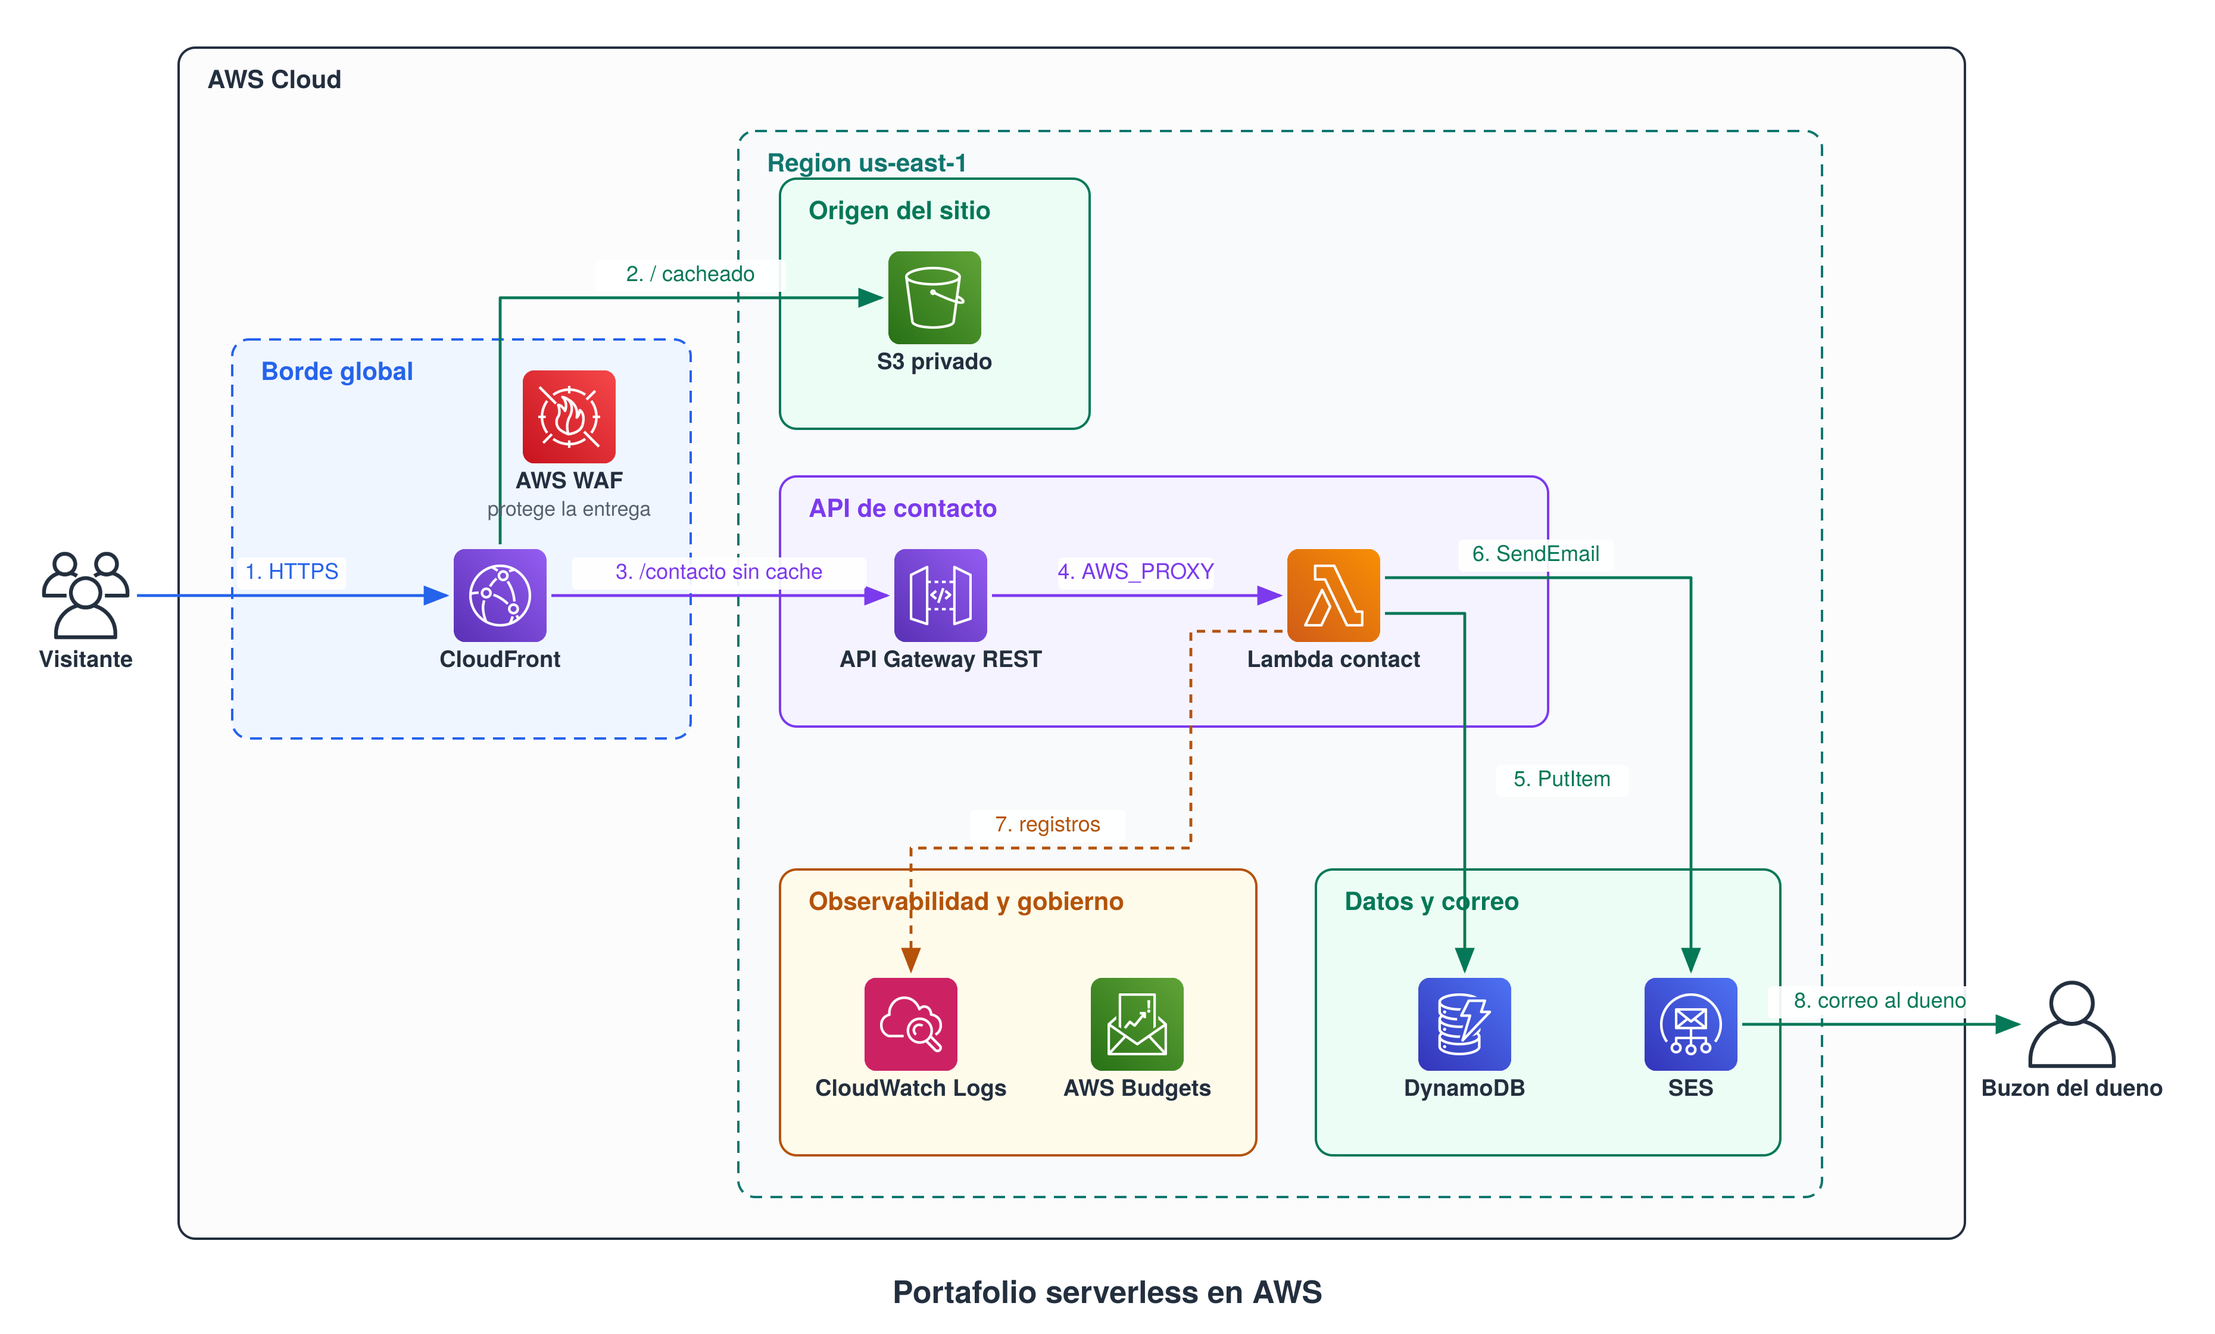
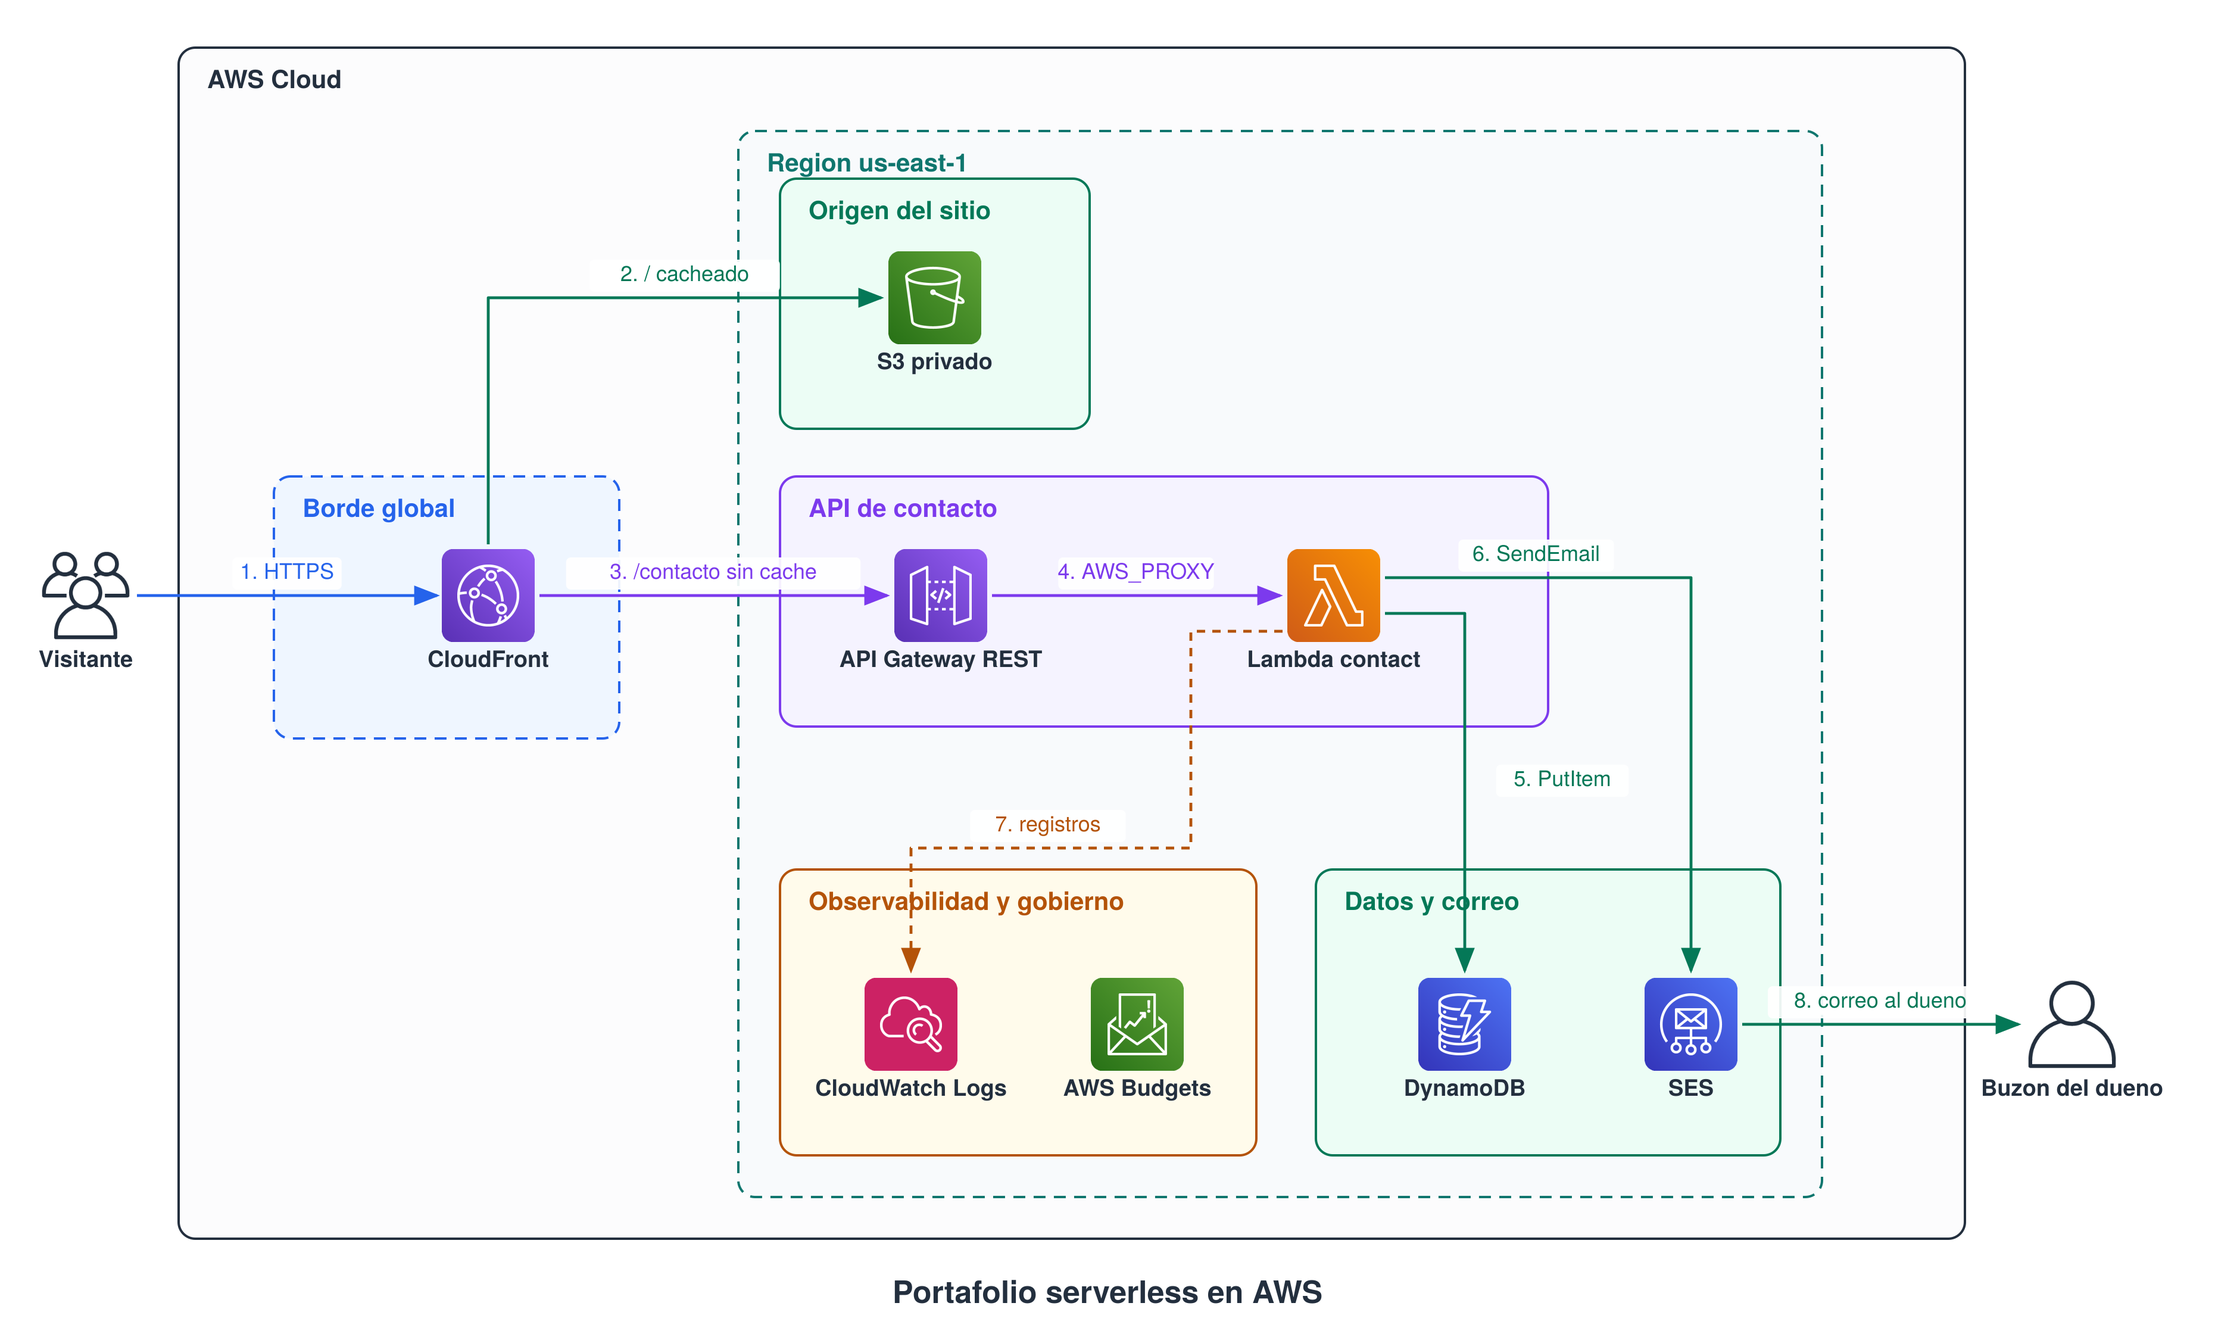
feat: delete waf from implementation, and improve the cdk practices, and add claude.md for interaction with ai

diff --git a/cdk/lib/portfolio-stack.ts b/cdk/lib/portfolio-stack.ts
@@ -5,7 +5,6 @@ import { ContactApi } from "./constructs/contact-api";
 import { ContactFunction } from "./constructs/contact-function";
 import { CostGuardrail } from "./constructs/cost-guardrail";
 import { EdgeDistribution } from "./constructs/edge-distribution";
-import { EdgeFirewall } from "./constructs/edge-firewall";
 import { MessageStore } from "./constructs/message-store";
 import { OwnerNotifications } from "./constructs/owner-notifications";
 import { SiteStorage } from "./constructs/site-storage";
@@ -13,23 +12,16 @@ import { SiteStorage } from "./constructs/site-storage";
 const CONTACT_PATH = "contacto";
 const API_RATE_LIMIT = 5;
 const API_BURST_LIMIT = 10;
-const WAF_REQUESTS_PER_IP = 100;
-const WAF_WINDOW_SECONDS = 300;
-const BUDGET_LIMIT_USD = 8;
-const BUDGET_ALERTS_USD = [5, 8];
+const BUDGET_LIMIT_USD = 5;
+const BUDGET_ALERTS_USD = [1, 5];
 
 export interface PortfolioStackProps extends cdk.StackProps {
   ownerEmail: string;
-  enableWaf: boolean;
 }
 
 export class PortfolioStack extends cdk.Stack {
   constructor(scope: Construct, id: string, props: PortfolioStackProps) {
     super(scope, id, props);
-
-    if (props.enableWaf && cdk.Stack.of(this).region !== "us-east-1") {
-      throw new Error("CloudFront WAF web ACLs are created in us-east-1. Deploy this stack in us-east-1.");
-    }
 
     const storage = new SiteStorage(this, "SiteStorage");
 
@@ -55,19 +47,10 @@ export class PortfolioStack extends cdk.Stack {
       burstLimit: API_BURST_LIMIT,
     });
 
-    const firewall = props.enableWaf
-      ? new EdgeFirewall(this, "EdgeFirewall", {
-          protectedPath: `/${CONTACT_PATH}`,
-          requestsPerIp: WAF_REQUESTS_PER_IP,
-          evaluationWindowSeconds: WAF_WINDOW_SECONDS,
-        })
-      : undefined;
-
     const edge = new EdgeDistribution(this, "EdgeDistribution", {
       siteBucket: storage.bucket,
       contactApi: api.api,
       contactPath: CONTACT_PATH,
-      webAclArn: firewall?.webAclArn,
     });
 
     new CostGuardrail(this, "CostGuardrail", {

diff --git a/cdk/lib/constructs/edge-distribution.ts b/cdk/lib/constructs/edge-distribution.ts
@@ -8,7 +8,6 @@ export interface EdgeDistributionProps {
   readonly siteBucket: s3.IBucket;
   readonly contactApi: apigateway.RestApi;
   readonly contactPath: string;
-  readonly webAclArn?: string;
 }
 
 export class EdgeDistribution extends Construct {
@@ -21,7 +20,6 @@ export class EdgeDistribution extends Construct {
       defaultRootObject: "index.html",
       priceClass: cloudfront.PriceClass.PRICE_CLASS_100,
       httpVersion: cloudfront.HttpVersion.HTTP2_AND_3,
-      webAclId: props.webAclArn,
       defaultBehavior: {
         origin: origins.S3BucketOrigin.withOriginAccessControl(props.siteBucket),
         viewerProtocolPolicy: cloudfront.ViewerProtocolPolicy.REDIRECT_TO_HTTPS,

diff --git a/cdk/bin/portfolio.ts b/cdk/bin/portfolio.ts
@@ -14,10 +14,9 @@ if (typeof student !== "string" || !/^[a-z0-9-]{2,20}$/.test(student)) {
   throw new Error("Pass your name with: cdk synth -c student=<lowercase-name>");
 }
 
-const enableWaf = app.node.tryGetContext("enableWaf") !== "false";
-
-new PortfolioStack(app, `portafolio-${student}`, {
+const stack = new PortfolioStack(app, `portafolio-${student}`, {
   ownerEmail,
-  enableWaf,
   env: { region: "us-east-1" },
 });
+
+cdk.Tags.of(stack).add("student", student);

diff --git a/arquitectura/arquitectura.py b/arquitectura/arquitectura.py
@@ -12,7 +12,6 @@ def icon_root():
 ICONS = icon_root()
 
 ICON = {
-    "waf": "security/waf.png",
     "cloudfront": "network/cloudfront.png",
     "s3": "storage/simple-storage-service-s3.png",
     "apigateway": "network/api-gateway.png",
@@ -172,7 +171,7 @@ def build_runtime():
     c = Canvas(1860, 1120, "Portafolio serverless en AWS")
 
     c.zone(150, 40, 1500, 1000, "AWS Cloud", "#232f3e", "#fcfcfd")
-    c.zone(195, 285, 385, 335, "Borde global", BLUE, "#eff6ff", dashed=True)
+    c.zone(230, 400, 290, 220, "Borde global", BLUE, "#eff6ff", dashed=True)
     c.zone(620, 110, 910, 895, "Region  us-east-1", "#0f766e", "#f8fafc", dashed=True)
     c.zone(655, 150, 260, 210, "Origen del sitio", GREEN, "#ecfdf5")
     c.zone(655, 400, 645, 210, "API de contacto", PURPLE, "#f5f3ff")
@@ -180,8 +179,7 @@ def build_runtime():
     c.zone(1105, 730, 390, 240, "Datos y correo", GREEN, "#ecfdf5")
 
     c.node(72, 500, "users", ["Visitante"])
-    c.node(478, 350, "waf", ["AWS WAF", "protege la entrega"])
-    c.node(420, 500, "cloudfront", ["CloudFront"])
+    c.node(410, 500, "cloudfront", ["CloudFront"])
     c.node(785, 250, "s3", ["S3 privado"])
     c.node(790, 500, "apigateway", ["API Gateway REST"])
     c.node(1120, 500, "lambda", ["Lambda contact"])
@@ -191,9 +189,9 @@ def build_runtime():
     c.node(1420, 860, "ses", ["SES"])
     c.node(1740, 860, "user", ["Buzon del dueno"])
 
-    c.arrow([(115, 500), (375, 500)], "1. HTTPS", BLUE, label_at=(245, 486))
-    c.arrow([(420, 457), (420, 250), (740, 250)], "2.  /  cacheado", GREEN, label_at=(580, 236))
-    c.arrow([(463, 500), (745, 500)], "3.  /contacto  sin cache", PURPLE, label_at=(604, 486))
+    c.arrow([(115, 500), (367, 500)], "1. HTTPS", BLUE, label_at=(241, 486))
+    c.arrow([(410, 457), (410, 250), (740, 250)], "2.  /  cacheado", GREEN, label_at=(575, 236))
+    c.arrow([(453, 500), (745, 500)], "3.  /contacto  sin cache", PURPLE, label_at=(599, 486))
     c.arrow([(833, 500), (1075, 500)], "4. AWS_PROXY", PURPLE, label_at=(954, 486))
     c.arrow([(1163, 485), (1420, 485), (1420, 815)], "6. SendEmail", GREEN, label_at=(1290, 471))
     c.arrow([(1163, 515), (1230, 515), (1230, 815)], "5. PutItem", GREEN, label_at=(1312, 660))

diff --git a/CLAUDE.md b/CLAUDE.md
@@ -1,0 +1,73 @@
+# Portafolio serverless en AWS
+
+Proyecto del laboratorio de AWS CDK para el curso de preparación de la certificación AWS Certified Cloud Practitioner (CLF-C02). Despliega un portafolio personal con formulario de contacto sobre infraestructura como código.
+
+## Comandos
+
+Todos desde `cdk/`. El contexto `student` da nombre a la pila y es obligatorio.
+
+```bash
+npm install
+npx tsc --noEmit -p .
+npx cdk synth  -c ownerEmail=<correo> -c student=<nombre>
+npx cdk diff   -c ownerEmail=<correo> -c student=<nombre>
+npx cdk deploy -c ownerEmail=<correo> -c student=<nombre>
+npx cdk destroy -c ownerEmail=<correo> -c student=<nombre>
+```
+
+Publicar el sitio, desde la raíz, con el nombre de bucket que sale en las salidas de la pila:
+
+```bash
+aws s3 sync site "s3://$BUCKET/" --delete
+```
+
+Regenerar los diagramas: `cd arquitectura && python3 arquitectura.py`. Requiere el paquete `diagrams` (solo por los iconos oficiales de AWS) y `rsvg-convert` para pasar el SVG a PNG.
+
+## Arquitectura
+
+CloudFront sirve el sitio desde un bucket de S3 privado al que solo él puede leer, mediante Origin Access Control. La ruta `/contacto` va por el mismo dominio a API Gateway REST, que invoca una función Lambda en Python. La función valida el mensaje, lo guarda en DynamoDB y lo envía por SES al correo del dueño. Los registros van a CloudWatch y hay un presupuesto con alertas.
+
+La región está fijada a `us-east-1` en `bin/portfolio.ts`.
+
+## Estructura
+
+| Ruta | Contenido |
+|---|---|
+| `cdk/lib/portfolio-stack.ts` | Compone los constructs y conecta los permisos. Las constantes de configuración viven aquí |
+| `cdk/lib/constructs/` | Un construct por responsabilidad: almacenamiento, tabla, SES, Lambda, API, CloudFront, presupuesto |
+| `lambda/index.py` | Función de contacto |
+| `site/` | Portafolio estático: `index.html`, `style.css`, `script.js` e `img/` |
+| `arquitectura/` | Generador de los diagramas en SVG, y los diagramas |
+| `datos-portafolio-plantilla.txt` | Plantilla en blanco con los campos de contenido del portafolio |
+| `datos-portafolio.txt` | Los datos reales de quien despliega. Está en el `.gitignore` |
+
+## Decisiones de diseño, no cambiar sin motivo
+
+**Constructs dentro de una sola pila, no varias pilas.** Separar en pilas crearía referencias cruzadas que impiden eliminar recursos mientras otra pila los exporte. El sistema se despliega y se borra junto.
+
+**Los permisos se conceden con métodos, no a mano.** `MessageStore.grantWrite()` y `OwnerNotifications.grantSend()`. Se usa `table.grant(fn, "dynamodb:PutItem")` en lugar de `grantWriteData()` a propósito: este último concedería además borrar y actualizar, y se perdería el privilegio mínimo.
+
+**El nombre de la pila sale del contexto `student`.** Todos los nombres de recursos derivan de `stackName`, de forma que varias personas puedan desplegar en la misma cuenta sin pisarse.
+
+**No hay WAF.** Se quitó del proyecto por costo: era casi todo el gasto fijo. Sin él la arquitectura cuesta menos de 1 USD al mes.
+
+## Convenciones
+
+- Código, nombres e identificadores en inglés. Documentación y textos de la interfaz en español.
+- Sin comentarios en el código. Si algo necesita explicación, va en el README.
+- Sin valores de relleno ni marcadores del tipo "reemplazar por". Lo pendiente se comunica, no se escribe en el código.
+- Sin guiones largos en ningún texto.
+
+## Cosas que muerden
+
+**El bucket tiene versionado y no borra objetos solo.** `cdk destroy` falla si quedan archivos. Hay que vaciarlo antes, incluidas las versiones ocultas.
+
+**CloudFront cachea 24 horas.** Después de volver a subir el sitio los cambios no se ven hasta invalidar la caché de la distribución.
+
+**SES exige verificar la identidad.** Hasta que se abra el enlace del correo, el formulario guarda el mensaje en DynamoDB pero falla al enviarlo.
+
+**CloudFront tarda varios minutos** en crearse y otros tantos en borrarse. No es que esté colgado.
+
+**`cdk deploy` necesita credenciales en terminal**, no basta con la sesión de la consola, y la cuenta debe tener `cdk bootstrap` hecho en us-east-1.
+
+**El `.gitignore` ignora `*.js`** para no subir el TypeScript compilado, con una excepción explícita para `site/script.js`. Si agregas JavaScript al sitio, añade su excepción o no se subirá.

diff --git a/cdk/README.md b/cdk/README.md
@@ -6,7 +6,7 @@ Toda la infraestructura del portafolio, descrita en TypeScript. CDK no reemplaza
 
 - Node.js 22 o superior.
 - Credenciales de AWS configuradas, por ejemplo con `aws configure`.
-- La región queda fijada a **us-east-1** en `bin/portfolio.ts`, porque la Web ACL de CloudFront solo se crea ahí.
+- La región queda fijada a **us-east-1** en `bin/portfolio.ts`, que es donde está preparada la cuenta del laboratorio.
 
 ## Instalar
 
@@ -27,7 +27,6 @@ El correo del dueño no está escrito en el código, se pasa como contexto en ca
 | Contexto | Obligatorio | Valor por defecto | Para qué sirve |
 |---|---|---|---|
 | `ownerEmail` | sí | sin valor | Dirección que recibe los mensajes y que se registra en SES |
-| `enableWaf` | no | `true` | Con `enableWaf=false` no se crea la Web ACL ni se asocia a CloudFront |
 
 Si falta `ownerEmail` o `student`, la aplicación se detiene con un mensaje que te lo recuerda. El contexto `student` da nombre a la pila, para que varias personas puedan desplegar en la misma cuenta sin pisarse.
 
@@ -43,7 +42,6 @@ La pila no define recursos directamente: los compone a partir de constructs, cad
 | `lib/constructs/owner-notifications.ts` | La identidad de SES, y el permiso de envío |
 | `lib/constructs/contact-function.ts` | La función Lambda y su grupo de registros |
 | `lib/constructs/contact-api.ts` | La API REST y su integración con la función |
-| `lib/constructs/edge-firewall.ts` | La Web ACL de WAF |
 | `lib/constructs/edge-distribution.ts` | La distribución de CloudFront y sus dos orígenes |
 | `lib/constructs/cost-guardrail.ts` | El presupuesto con alertas |
 
@@ -53,7 +51,7 @@ Dos detalles de diseño que vale la pena mirar:
 
 Los permisos **no** se escriben a mano. `message-store.ts` expone `grantWrite()` y `owner-notifications.ts` expone `grantSend()`, y es la pila la que los conecta. Cada construct decide qué permiso concede sobre lo suyo, y nadie más tiene que conocer los ARN.
 
-Los números de configuración viven en la pila, no escondidos dentro de los constructs. El límite de peticiones, el monto del presupuesto y la ventana del WAF están arriba del archivo `portfolio-stack.ts`, donde se ven todos juntos.
+Los números de configuración viven en la pila, no escondidos dentro de los constructs. El límite de peticiones de la API y el monto del presupuesto están arriba del archivo `portfolio-stack.ts`, donde se ven todos juntos.
 
 ## Comandos
 
@@ -78,12 +76,6 @@ npx cdk deploy -c ownerEmail=tu-correo@ejemplo.com -c student=tunombre
 npx cdk destroy -c ownerEmail=tu-correo@ejemplo.com -c student=tunombre
 ```
 
-Sin WAF:
-
-```bash
-npx cdk synth -c ownerEmail=tu-correo@ejemplo.com -c student=tunombre -c enableWaf=false
-```
-
 ## Sobre el bootstrap
 
 `cdk deploy` exige haber ejecutado antes `npx cdk bootstrap`. Ese comando crea una pila aparte llamada `CDKToolkit`, con un bucket de S3 y varios roles que **no** desaparecen al ejecutar `cdk destroy`. Si lo usas, elimina esa pila desde la consola de CloudFormation al terminar, o quedará consumiendo almacenamiento.
@@ -93,6 +85,8 @@ Si solo quieres entender la diferencia entre escribir una plantilla y generarla,
 ## Nombres de pila
 
 Esta aplicación despliega la pila `portafolio-<tunombre>`, armada con el contexto `student`. El nombre sale de ahí para que varias personas puedan desplegar en la misma cuenta sin pisarse: cada una obtiene su propia pila y su propio conjunto de recursos.
+
+Todos los recursos llevan además la etiqueta `student` con ese mismo valor. La política de los usuarios del laboratorio la usa para que cada persona solo pueda invalidar la caché de su propia distribución de CloudFront, así que el valor de `student` debe coincidir con el nombre de usuario de IAM.
 
 ## Código de la función
 

diff --git a/README.md b/README.md
@@ -11,23 +11,22 @@ Despliega un portafolio personal sobre una arquitectura real: sitio estático se
 El recorrido de una petición, siguiendo los números del diagrama:
 
 1. El visitante entra por **CloudFront**, que sirve el sitio sobre HTTPS desde ubicaciones de borde.
-2. **AWS WAF** inspecciona cada petición antes de que llegue, con reglas comunes y un límite por IP sobre el formulario.
-3. La ruta raíz se sirve desde un bucket de **S3 privado**, al que solo CloudFront puede leer.
-4. La ruta `/contacto` va a **API Gateway**, sin caché.
-5. **Lambda** valida el mensaje.
-6. Lo guarda en **DynamoDB**.
-7. Lo envía por **SES** al correo del dueño.
-8. Los registros quedan en **CloudWatch**.
+2. La ruta raíz se sirve desde un bucket de **S3 privado**, al que solo CloudFront puede leer.
+3. La ruta `/contacto` va a **API Gateway**, sin caché.
+4. **Lambda** valida el mensaje.
+5. Lo guarda en **DynamoDB**.
+6. Lo envía por **SES** al correo del dueño.
+7. Los registros quedan en **CloudWatch**.
 
-CloudFront y WAF son servicios globales, por eso aparecen fuera de la región en el diagrama. Esa es también la razón de que la pila exija `us-east-1`: las Web ACL para CloudFront solo se crean ahí.
+CloudFront es un servicio global, por eso aparece fuera de la región en el diagrama: sirve el sitio desde ubicaciones de borde repartidas por el mundo, mientras el resto de los recursos vive en una sola región. La pila se despliega en `us-east-1`.
 
 ## Qué cuesta
 
-Alrededor de **7 USD al mes**, y casi todo es costo fijo del WAF: 5 por la Web ACL, 1 por la regla de tasa y 1 por el grupo de reglas administrado. El resto cae dentro de capas gratuitas a este volumen.
+**Menos de 1 USD al mes** con el tráfico de un portafolio personal. A este volumen casi todo cae dentro de capas gratuitas: CloudFront regala 1 TB de salida y 10 millones de peticiones al mes, y Lambda 1 millón de invocaciones.
 
-El cobro es por hora, así que desplegar, probar y eliminar en la misma sesión cuesta centavos. Desplegando sin WAF (`-c enableWaf=false`) el total baja de 1 USD al mes.
+El cobro es por hora y por uso, así que desplegar, probar y eliminar en la misma sesión cuesta centavos.
 
-La pila crea un presupuesto con avisos a los 5 y a los 8 USD. Avisa, no detiene el gasto.
+La pila crea un presupuesto con avisos a 1 y a 5 USD. Avisa, no detiene el gasto.
 
 ## Requisitos
 
